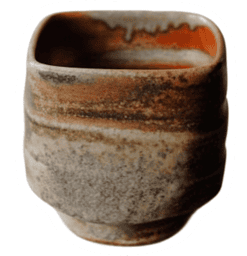
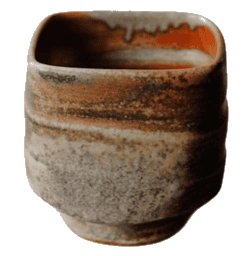
Cubby passcode keypad with a cup clink per digit; clean cup photos
- Passcode keypad is the wooden cubby again, one pottery cup per number
- New clink synth: each digit is its own cup on a pentatonic note with
  inharmonic ceramic partials, a slight shimmer and a short strike;
  delete is a soft wood tap; unlocking plays three rising cups
- Strip the white cut-out fringe from every cup photo so they sit cleanly
  on wood and on the wall

diff --git a/App.web.tsx b/App.web.tsx
@@ -18,6 +18,7 @@ import { AuthProvider, useAuth } from './src/lib/AuthContext';
 import { Home } from './src/screens/home/Home.web';
 import { Checkin } from './src/screens/checkin/Checkin.web';
 import { useHomeStyles } from './src/screens/home/homeStyles';
+import { playClink, playTap, playUnlock } from './src/utils/cupClink';
 import { AddBucket } from './src/screens/AddBucket';
 import { AddExpense } from './src/screens/AddExpense';
 import { Settings } from './src/screens/Settings';
@@ -32,6 +33,8 @@ import type { Bucket, Expense } from './src/types';
 type Screen = 'buckets' | 'settings' | 'review';
 
 // Cup images for the shelf — all 15 cups fill a 5x5 grid
+const CUBBY_IMG = require('./assets/images/shelf.png');
+
 const SHELF_CUPS = [
   require('./assets/images/cup0.png'),
   require('./assets/images/cup8.png'),
@@ -75,6 +78,7 @@ function AuthGate({ children }: { children: React.ReactNode }) {
   }, [hasUsersAction]);
 
   useHomeStyles();
+  useEffect(() => { if (success) playUnlock(); }, [success]);
 
   // Reset passcode when lock screen activates
   useEffect(() => {
@@ -214,58 +218,6 @@ function AuthGate({ children }: { children: React.ReactNode }) {
 
   const currentCode = (isSetup && isConfirming) ? confirmPasscode : passcode;
 
-  // Ceramic cup clink sounds — bright, short, high-pitched like tapping porcelain
-  const CLINK_NOTES = [
-    1568, 1760, 1976, 2093, 2349, 2637, 2794, 3136, 3520, 3951, 4186, 4699,
-  ];
-  const playCupChime = (row: number, col: number) => {
-    try {
-      const ctx = new (window.AudioContext || (window as any).webkitAudioContext)();
-      const t = ctx.currentTime;
-      const noteIdx = Math.min(row * 3 + col, CLINK_NOTES.length - 1);
-      const baseFreq = CLINK_NOTES[noteIdx];
-      const freq = baseFreq * (1 + (Math.random() - 0.5) * 0.015);
-
-      // Primary clink — sharp sine with fast decay
-      const osc1 = ctx.createOscillator();
-      const g1 = ctx.createGain();
-      osc1.type = 'sine';
-      osc1.frequency.setValueAtTime(freq, t);
-      osc1.frequency.exponentialRampToValueAtTime(freq * 0.95, t + 0.12);
-      g1.gain.setValueAtTime(0.18, t);
-      g1.gain.exponentialRampToValueAtTime(0.001, t + 0.15);
-      osc1.connect(g1).connect(ctx.destination);
-      osc1.start(t);
-      osc1.stop(t + 0.15);
-
-      // High harmonic — ceramic shimmer
-      const osc2 = ctx.createOscillator();
-      const g2 = ctx.createGain();
-      osc2.type = 'sine';
-      osc2.frequency.setValueAtTime(freq * 2.5, t);
-      osc2.frequency.exponentialRampToValueAtTime(freq * 2.2, t + 0.08);
-      g2.gain.setValueAtTime(0.06, t);
-      g2.gain.exponentialRampToValueAtTime(0.001, t + 0.08);
-      osc2.connect(g2).connect(ctx.destination);
-      osc2.start(t);
-      osc2.stop(t + 0.08);
-
-      // Tap body — short noise-like click from triangle wave
-      const osc3 = ctx.createOscillator();
-      const g3 = ctx.createGain();
-      osc3.type = 'triangle';
-      osc3.frequency.setValueAtTime(freq * 1.5, t);
-      osc3.frequency.exponentialRampToValueAtTime(freq * 0.8, t + 0.05);
-      g3.gain.setValueAtTime(0.1, t);
-      g3.gain.exponentialRampToValueAtTime(0.001, t + 0.06);
-      osc3.connect(g3).connect(ctx.destination);
-      osc3.start(t);
-      osc3.stop(t + 0.06);
-
-      setTimeout(() => ctx.close(), 250);
-    } catch (_) {}
-  };
-
   const KEYS = ['1', '2', '3', '4', '5', '6', '7', '8', '9', '', '0', 'del'];
   const keyCup = (d: string) => {
     const mod: any = SHELF_CUPS[(Number(d) + 1) % SHELF_CUPS.length];
@@ -311,31 +263,26 @@ function AuthGate({ children }: { children: React.ReactNode }) {
           }} />
         ))}
       </div>
-      <div style={{ display: 'flex', flexDirection: 'column', gap: 18 }}>
-        {[0, 1, 2, 3].map((r) => (
-          <div key={r}>
-            <div style={{ display: 'grid', gridTemplateColumns: 'repeat(3, minmax(0, 1fr))', alignItems: 'end' }}>
-              {KEYS.slice(r * 3, r * 3 + 3).map((d, c) =>
-                d === '' ? <span key={c} /> : d === 'del' ? (
-                  <button key={c} type="button" onClick={handleDelete} aria-label="Delete"
-                    style={{ ...linkStyle, justifySelf: 'center', height: 56, fontSize: 13 }}>Delete</button>
-                ) : (
-                  <button key={c} type="button" className="bk-cup bk-key" aria-label={d}
-                    onClick={() => { playCupChime(r, c); handleDigit(d); }}
-                    style={{ justifySelf: 'center', width: 56, height: 56 }}>
-                    <img src={keyCup(d)} alt="" style={{ position: 'absolute', inset: 0, width: '100%', height: '100%', objectFit: 'contain', objectPosition: 'bottom', mixBlendMode: 'multiply' }} />
-                  </button>
-                )
-              )}
-            </div>
-            <div className="bk-plank" />
-            <div style={{ display: 'grid', gridTemplateColumns: 'repeat(3, minmax(0, 1fr))', paddingTop: 8 }}>
-              {KEYS.slice(r * 3, r * 3 + 3).map((d, c) => (
-                <span key={c} style={{ textAlign: 'center', fontSize: 15, fontWeight: 500, color: '#1F1B17' }}>{d === 'del' ? '' : d}</span>
-              ))}
-            </div>
-          </div>
-        ))}
+      {/* Passcode keypad: your cups in the wooden cubby, one per number. */}
+      <div style={{ position: 'relative', width: '100%', maxWidth: 300, alignSelf: 'center', filter: 'drop-shadow(0 14px 22px rgba(45,28,16,0.18))' }}>
+        <img src={typeof CUBBY_IMG === 'string' ? CUBBY_IMG : CUBBY_IMG?.default} alt="" style={{ display: 'block', width: '100%', height: 'auto' }} />
+        <div style={{ position: 'absolute', top: '3.5%', left: '4%', right: '4%', bottom: '3%', display: 'grid', gridTemplateColumns: 'repeat(3, 1fr)', gridTemplateRows: 'repeat(4, 1fr)', gap: '3% 2.5%' }}>
+          {KEYS.map((d, i) =>
+            d === '' ? <span key={i} /> : d === 'del' ? (
+              <button key={i} type="button" onClick={() => { playTap(); handleDelete(); }} aria-label="Delete"
+                style={{ appearance: 'none', border: 0, background: 'transparent', cursor: 'pointer', color: 'rgba(255,255,255,0.85)', fontSize: 13, fontFamily: 'inherit' }}>
+                Delete
+              </button>
+            ) : (
+              <button key={i} type="button" className="bk-key" aria-label={d}
+                onClick={() => { playClink(d); handleDigit(d); }}
+                style={{ appearance: 'none', border: 0, background: 'transparent', cursor: 'pointer', padding: '10% 10% 4%', position: 'relative', top: 0, display: 'flex', alignItems: 'flex-end', justifyContent: 'center', transition: 'top .5s cubic-bezier(0.16,0.9,0.4,1)' }}>
+                <span style={{ position: 'absolute', top: '8%', left: '10%', fontSize: 12, fontWeight: 500, color: 'rgba(255,255,255,0.8)' }}>{d}</span>
+                <img src={keyCup(d)} alt="" style={{ width: '82%', height: '78%', objectFit: 'contain', objectPosition: 'bottom', filter: 'drop-shadow(0 3px 3px rgba(40,22,10,0.35))' }} />
+              </button>
+            )
+          )}
+        </div>
       </div>
       {!isLockScreen && (
         <button type="button" style={linkStyle} onClick={() => {

diff --git a/src/utils/cupClink.ts b/src/utils/cupClink.ts
@@ -1,0 +1,114 @@
+// Ceramic cup clinks for the passcode keypad. Each digit is its own cup:
+// a different note (major pentatonic, so any code sounds pleasant) and a
+// slightly different glaze (partial ratios), like tapping real cups.
+//
+// A struck cup rings with a few inharmonic partials that die away at
+// different speeds, plus a very short "tick" where the spoon hits.
+
+let ctx: AudioContext | null = null;
+function audio(): AudioContext | null {
+  try {
+    if (!ctx) ctx = new (window.AudioContext || (window as any).webkitAudioContext)();
+    if (ctx.state === 'suspended') ctx.resume();
+    return ctx;
+  } catch {
+    return null;
+  }
+}
+
+// C major pentatonic across two octaves; 0 sits lowest, like the biggest cup.
+const NOTE: Record<string, number> = {
+  '0': 880.0, // A5
+  '1': 1046.5, // C6
+  '2': 1174.7, // D6
+  '3': 1318.5, // E6
+  '4': 1568.0, // G6
+  '5': 1760.0, // A6
+  '6': 2093.0, // C7
+  '7': 2349.3, // D7
+  '8': 2637.0, // E7
+  '9': 3136.0, // G7
+};
+
+// Partial ratios for small porcelain cups (roughly a cup's bending modes).
+// Each digit nudges them a little so no two cups sound identical.
+const PARTIALS = [
+  { ratio: 1, gain: 1, decay: 0.9 },
+  { ratio: 2.71, gain: 0.32, decay: 0.45 },
+  { ratio: 5.12, gain: 0.12, decay: 0.22 },
+  { ratio: 8.3, gain: 0.05, decay: 0.12 },
+];
+
+export function playClink(digit: string, volume = 0.16) {
+  const ac = audio();
+  if (!ac) return;
+  const base = NOTE[digit] ?? 1046.5;
+  const n = Number(digit) || 0;
+  const t = ac.currentTime + 0.005;
+
+  const out = ac.createGain();
+  out.gain.value = volume;
+  // Gentle high shelf keeps it bright but not piercing.
+  const tone = ac.createBiquadFilter();
+  tone.type = 'lowpass';
+  tone.frequency.value = 9000;
+  out.connect(tone).connect(ac.destination);
+
+  PARTIALS.forEach((p, i) => {
+    const glaze = 1 + ((n * 7 + i * 3) % 5 - 2) * 0.006; // each cup slightly different
+    const f = base * p.ratio * glaze;
+    if (f > 16000) return;
+    // Two oscillators a hair apart give the slow shimmer of real ceramic.
+    for (const detune of [-0.0015, 0.0015]) {
+      const osc = ac.createOscillator();
+      const g = ac.createGain();
+      osc.type = 'sine';
+      osc.frequency.value = f * (1 + detune);
+      g.gain.setValueAtTime(0.0001, t);
+      g.gain.exponentialRampToValueAtTime(p.gain * 0.5, t + 0.003);
+      g.gain.exponentialRampToValueAtTime(0.0001, t + p.decay * (1 - n * 0.02));
+      osc.connect(g).connect(out);
+      osc.start(t);
+      osc.stop(t + p.decay + 0.05);
+    }
+  });
+
+  // The strike: a 10ms burst of filtered noise.
+  const len = Math.floor(ac.sampleRate * 0.012);
+  const buf = ac.createBuffer(1, len, ac.sampleRate);
+  const data = buf.getChannelData(0);
+  for (let i = 0; i < len; i++) data[i] = (Math.random() * 2 - 1) * (1 - i / len);
+  const noise = ac.createBufferSource();
+  noise.buffer = buf;
+  const bp = ac.createBiquadFilter();
+  bp.type = 'bandpass';
+  bp.frequency.value = base * 3;
+  bp.Q.value = 1.2;
+  const ng = ac.createGain();
+  ng.gain.value = 0.35;
+  noise.connect(bp).connect(ng).connect(out);
+  noise.start(t);
+}
+
+// Delete: a soft, low tap on the shelf wood.
+export function playTap(volume = 0.12) {
+  const ac = audio();
+  if (!ac) return;
+  const t = ac.currentTime + 0.005;
+  const osc = ac.createOscillator();
+  const g = ac.createGain();
+  osc.type = 'sine';
+  osc.frequency.setValueAtTime(220, t);
+  osc.frequency.exponentialRampToValueAtTime(140, t + 0.08);
+  g.gain.setValueAtTime(0.0001, t);
+  g.gain.exponentialRampToValueAtTime(volume, t + 0.004);
+  g.gain.exponentialRampToValueAtTime(0.0001, t + 0.12);
+  osc.connect(g).connect(ac.destination);
+  osc.start(t);
+  osc.stop(t + 0.14);
+}
+
+// Unlocked: three cups, rising.
+export function playUnlock() {
+  ['1', '4', '6'].forEach((d, i) => setTimeout(() => playClink(d, 0.12), i * 90));
+}
